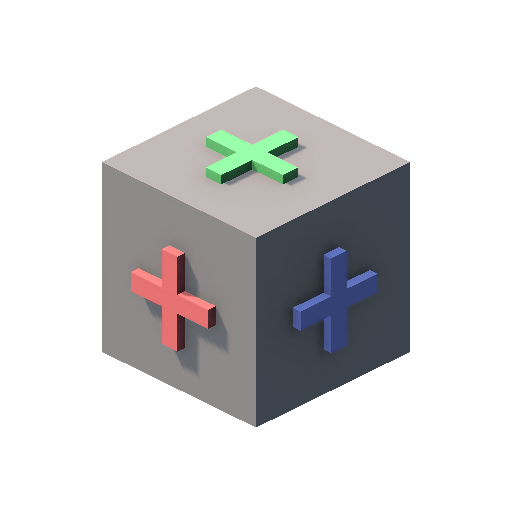
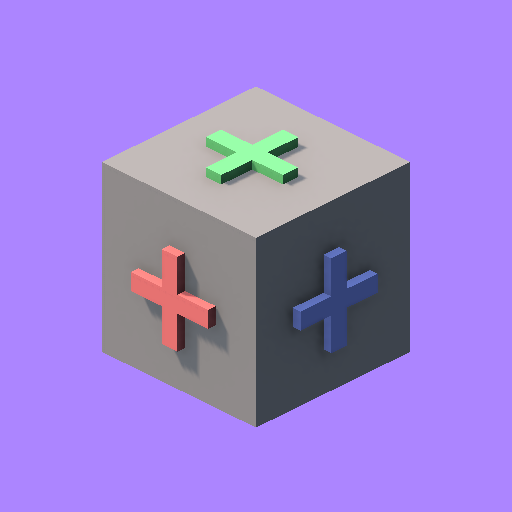
Add configurable background color support
- Added configurable background color support
- Added transparent background toggle
- Added background color picker
- Updated preview and export rendering
- Unified debug, preview, and export backgrounds
- Preserved transparent PNG exports

diff --git a/Assets/ClockworkPixieTools/IconForge/Editor/Windows/IconForgeWindow.cs b/Assets/ClockworkPixieTools/IconForge/Editor/Windows/IconForgeWindow.cs
@@ -26,7 +26,6 @@ public class IconForgeWindow : EditorWindow
         256,
         512
     };
-
     private readonly string[] resolutionLabels =
     {
         "64 × 64",
@@ -34,7 +33,8 @@ public class IconForgeWindow : EditorWindow
         "256 × 256",
         "512 × 512"
     };
-
+    private bool useTransparentBackground = true;
+    private Color backgroundColor = new Color(0.08f, 0.08f, 0.08f, 1f);
     private int selectedResolutionIndex = 2;
 
     private void OnGUI()
@@ -60,6 +60,11 @@ public class IconForgeWindow : EditorWindow
         // Profile and Output Settings
         profile = (IconForgeProfile)EditorGUILayout.ObjectField("Profile", profile, typeof(IconForgeProfile), false);
         outputSettings = (IconOutputSettings)EditorGUILayout.ObjectField("Output Settings", outputSettings, typeof(IconOutputSettings), false);
+        useTransparentBackground = EditorGUILayout.Toggle("Transparent Background", useTransparentBackground);
+        if (!useTransparentBackground)
+        {
+            backgroundColor = EditorGUILayout.ColorField("Background Color", backgroundColor);
+        }
         selectedResolutionIndex = EditorGUILayout.Popup("Export Resolution", selectedResolutionIndex, resolutionLabels);
         exportFileName = EditorGUILayout.TextField("Export File Name", exportFileName);
 
@@ -91,7 +96,8 @@ public class IconForgeWindow : EditorWindow
             {
                 IconForgeDebugRig.CreateDebugRig(
                     sourceObject,
-                    iconFillPercent / 100f);
+                    iconFillPercent / 100f,
+                    backgroundColor);
             }
 
             GUI.enabled = true;
@@ -134,7 +140,9 @@ public class IconForgeWindow : EditorWindow
             return;
         }
 
-        previewTexture = IconRenderCapture.GeneratePreview( sourceObject, iconFillPercent / 100f, 256);
+        Color renderBackgroundColor = useTransparentBackground ? new Color(0f, 0f, 0f, 0f) : backgroundColor;
+
+        previewTexture = IconRenderCapture.GeneratePreview(sourceObject, iconFillPercent / 100f, 256, renderBackgroundColor);
 
         Repaint();
     }
@@ -149,10 +157,9 @@ public class IconForgeWindow : EditorWindow
 
         int exportResolution = resolutionValues[selectedResolutionIndex];
 
-        Texture2D exportTexture = IconRenderCapture.GeneratePreview(
-            sourceObject,
-            iconFillPercent / 100f,
-            exportResolution);
+        Color renderBackgroundColor = useTransparentBackground ? new Color(0f, 0f, 0f, 0f) : backgroundColor;
+
+        Texture2D exportTexture = IconRenderCapture.GeneratePreview(sourceObject, iconFillPercent / 100f, exportResolution, renderBackgroundColor);
 
         if (exportTexture == null)
         {

diff --git a/Assets/ClockworkPixieTools/IconForge/Editor/Rendering/IconPreviewRigBuilder.cs b/Assets/ClockworkPixieTools/IconForge/Editor/Rendering/IconPreviewRigBuilder.cs
@@ -6,7 +6,10 @@ public static class IconPreviewRigBuilder
     private const string RigName = "Icon Forge Preview Rig";
     private static readonly Vector3 RigPosition = new Vector3(1000f, 0f, 1000f);
 
-    public static IconPreviewRig Build(GameObject sourceObject, float fillPercent)
+    public static IconPreviewRig Build(
+    GameObject sourceObject,
+    float fillPercent,
+    Color backgroundColor)
     {
         if (sourceObject == null)
         {
@@ -26,7 +29,7 @@ public static class IconPreviewRigBuilder
 
         Bounds bounds = ObjectBoundsAnalyzer.CalculateRendererBounds(previewObject);
 
-        Camera camera = CreateCamera(bounds, fillPercent);
+        Camera camera = CreateCamera(bounds, fillPercent, backgroundColor);
         camera.transform.SetParent(root.transform);
 
         Light mainLight = CreateLight();
@@ -44,13 +47,16 @@ public static class IconPreviewRigBuilder
         };
     }
 
-    private static Camera CreateCamera(Bounds bounds, float fillPercent)
+    private static Camera CreateCamera(
+    Bounds bounds,
+    float fillPercent,
+    Color backgroundColor)
     {
         GameObject cameraObject = new GameObject("Icon Forge Preview Camera");
         Camera camera = cameraObject.AddComponent<Camera>();
 
         camera.clearFlags = CameraClearFlags.SolidColor;
-        camera.backgroundColor = new Color(0f, 0f, 0f, 0f);
+        camera.backgroundColor = backgroundColor;
         camera.cullingMask = 1 << PreviewLayer;
         camera.orthographic = true;
 

diff --git a/Assets/ClockworkPixieTools/IconForge/Editor/Rendering/IconRenderCapture.cs b/Assets/ClockworkPixieTools/IconForge/Editor/Rendering/IconRenderCapture.cs
@@ -2,9 +2,16 @@ using UnityEngine;
 
 public static class IconRenderCapture
 {
-    public static Texture2D GeneratePreview(GameObject sourceObject, float fillPercent, int resolution)
+    public static Texture2D GeneratePreview(
+    GameObject sourceObject,
+    float fillPercent,
+    int resolution,
+    Color backgroundColor)
     {
-        IconPreviewRig rig = IconPreviewRigBuilder.Build(sourceObject, fillPercent);
+        IconPreviewRig rig = IconPreviewRigBuilder.Build(
+            sourceObject,
+            fillPercent,
+            backgroundColor);
 
         if (rig == null)
         {
@@ -17,7 +24,7 @@ public static class IconRenderCapture
         RenderTexture previous = RenderTexture.active;
         RenderTexture.active = renderTexture;
 
-        GL.Clear(true, true, new Color(0f, 0f, 0f, 0f));
+        GL.Clear(true, true, backgroundColor);
 
         rig.Camera.Render();
 

diff --git a/Assets/ClockworkPixieTools/IconForge/Editor/Rendering/IconForgeDebugRig.cs b/Assets/ClockworkPixieTools/IconForge/Editor/Rendering/IconForgeDebugRig.cs
@@ -4,11 +4,17 @@ public static class IconForgeDebugRig
 {
     private const string DebugRigName = "Icon Forge Preview Rig";
 
-    public static void CreateDebugRig(GameObject sourceObject, float fillPercent)
+    public static void CreateDebugRig(
+    GameObject sourceObject,
+    float fillPercent,
+    Color backgroundColor)
     {
         DestroyDebugRig();
 
-        IconPreviewRig rig = IconPreviewRigBuilder.Build(sourceObject, fillPercent);
+        IconPreviewRig rig = IconPreviewRigBuilder.Build(
+            sourceObject,
+            fillPercent,
+            backgroundColor);
 
         if (rig == null)
         {